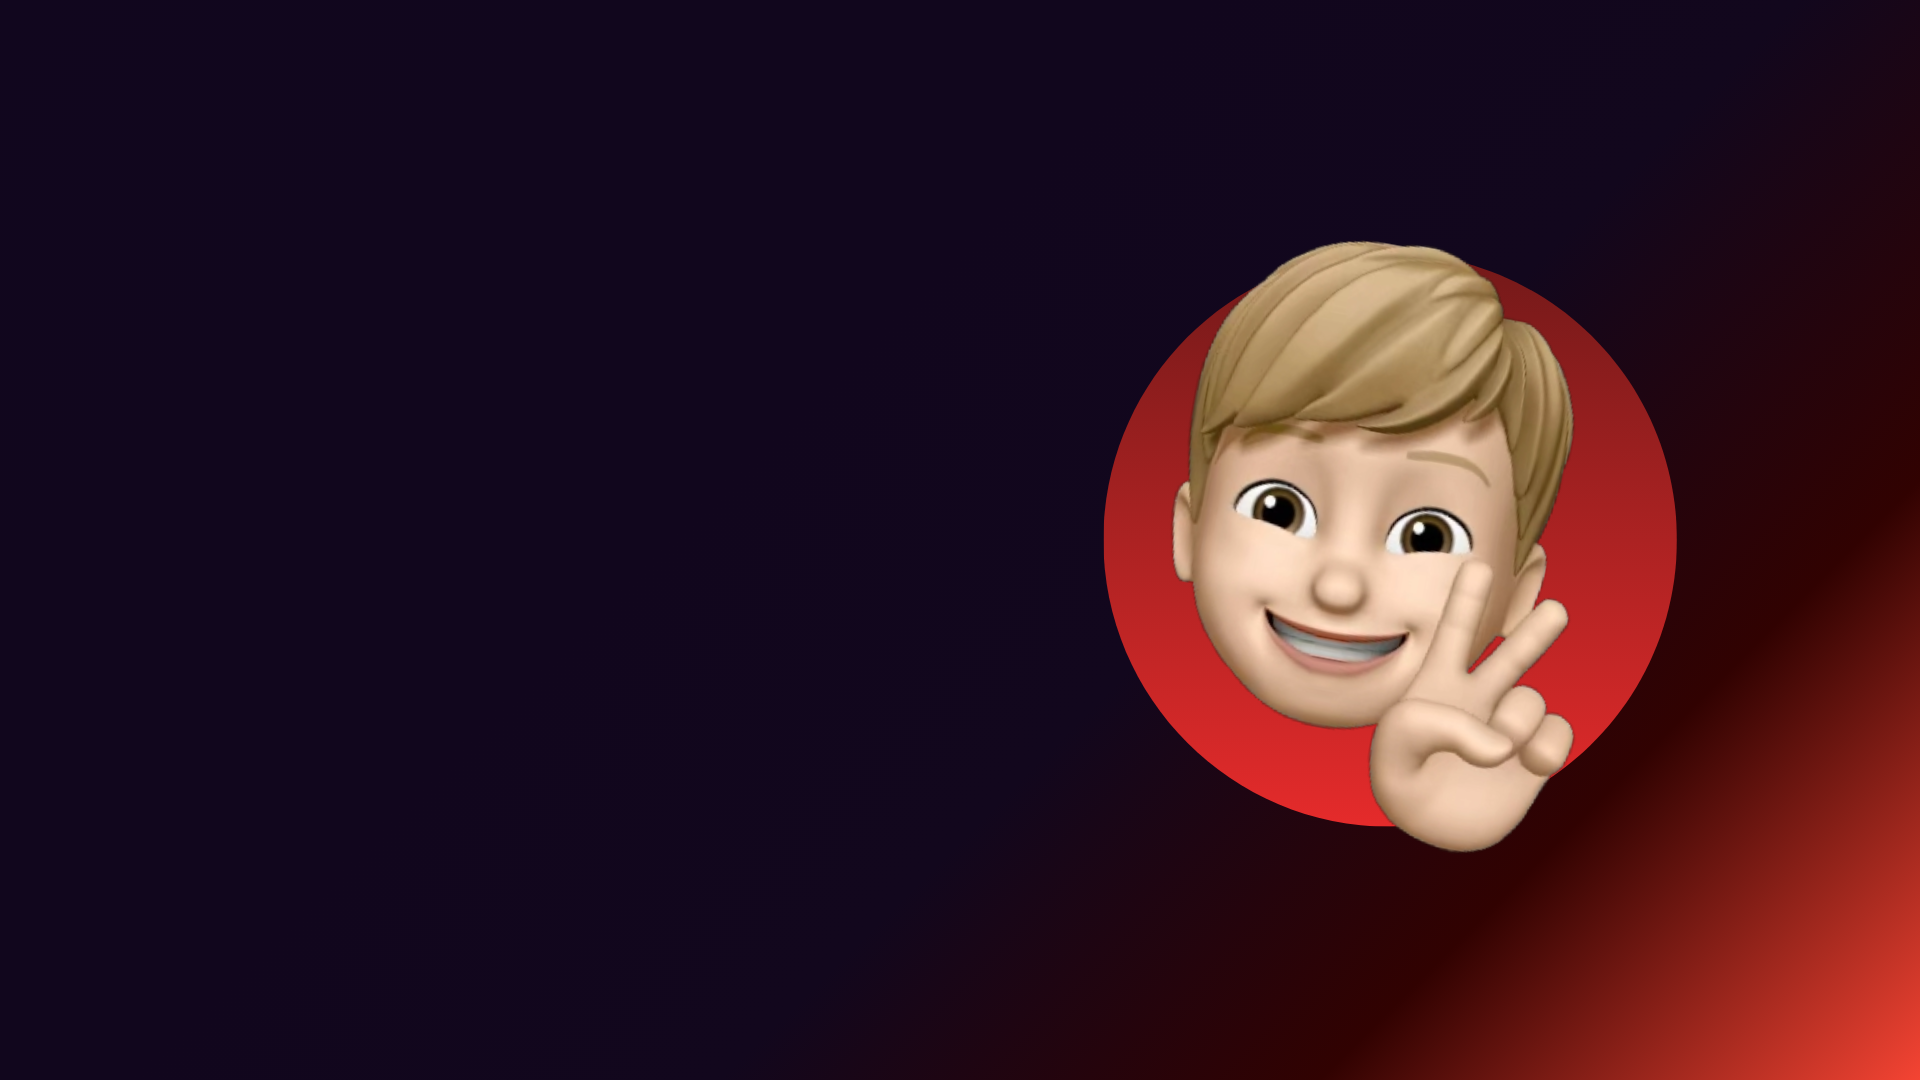
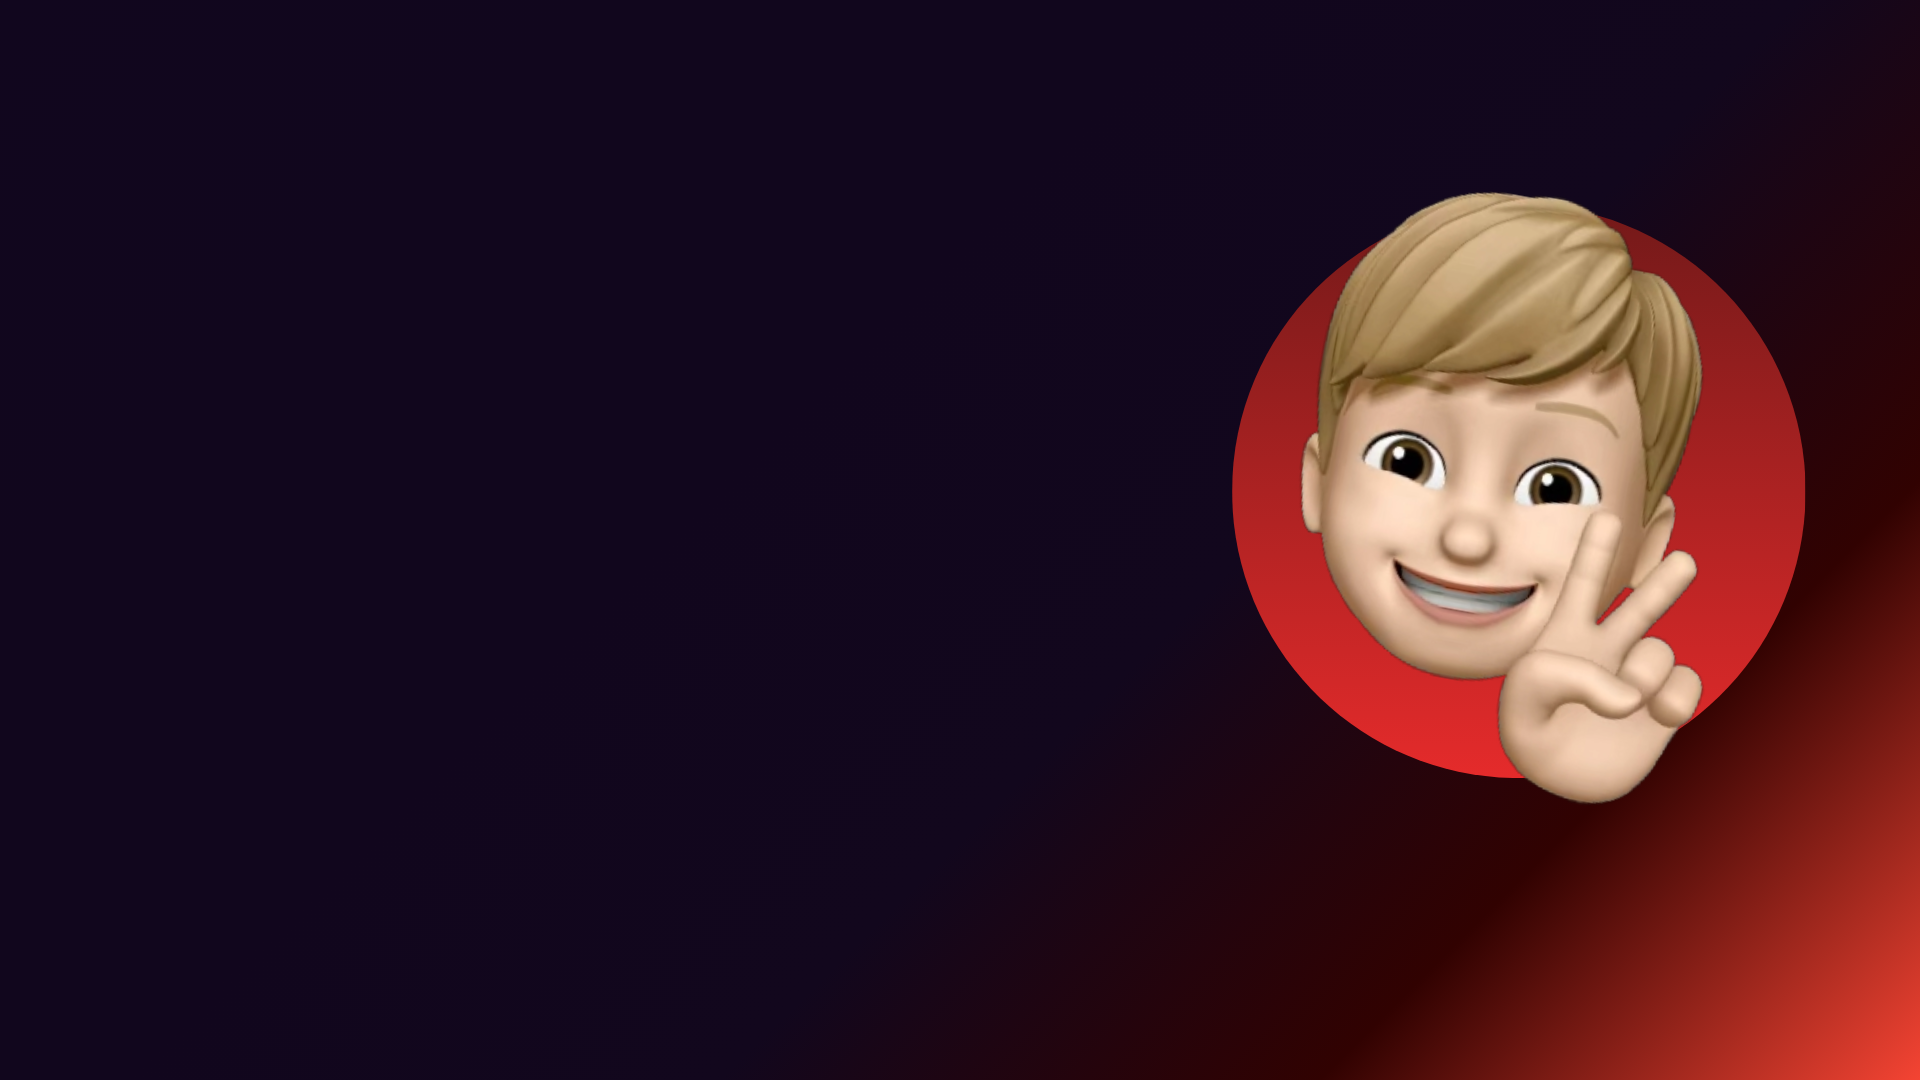
finalização da tela home

Changed region(s): [[0.5625, 0.1528, 0.9375, 0.7944]]

diff --git a/index.html b/index.html
@@ -1,60 +1,57 @@
-<!DOCTYPE html>
-<html lang="pt">
-<head>
-    <meta charset="UTF-8">
-    <meta name="viewport" content="width=device-width, initial-scale=1.0">
-    <link rel="stylesheet" href="style.css">
-<link rel="shortcut icon" href="assets/icons/favicon.ico" type="image/x-icon">
-    <title>Thiago Carvalho</title>
-</head>
+    <!DOCTYPE html>
+    <html lang="pt">
+    <head>
+        <meta charset="UTF-8">
+        <meta name="viewport" content="width=device-width, initial-scale=1.0">
+        <link rel="stylesheet" href="style.css">
+    <link rel="shortcut icon" href="assets/icons/favicon.ico" type="image/x-icon">
+        <title>Thiago Carvalho</title>
+    </head>
 
 
 
-<body class="body">
+    <body class="body">
 
 
-    <section id="home">
-        <div class="NomeFrente"> 
-            <p class="teste">Hello, I'm</p>
-        <h2>Thiago</h2>
-        <h1>    Carvalho</h1>
-    
+        <section class="home">
+            <div class="NomeFrente"> 
+                <p class="hello">Hello, I'm</p>
+            <h2>Thiago</h2>
+            <h1>    Carvalho</h1>
+        
+        </div>
+        <P class="ap">I’m a Back-End Developer specializing in building <br> scalable and efficient applications using Java.</P>
+        <div class="btn-container">
+        <a href="https://instagram.com/__Thiagocarvallho" class="insta-btn" target="_blank">
+            <img class="btn-insta" src="assets/icons/instagram.png" alt="Instagram">
+        </a>
+
+        <a href="https://github.com/tayssobrt" class="insta-btn" target="_blank">
+            <img class="btn-insta" src="assets/icons/Github.png" alt="GitHub">
+        </a>
+
+        <a href="https://www.linkedin.com/in/thiago-andr%C3%A9-75857334b/" class="insta-btn" target="_blank"> 
+            <img class="btn-insta" src="assets/icons/linkedin.png" alt="Linkedin">
+        </a>
     </div>
-    <P class="ap">I’m a Back-End Developer specializing in building <br> scalable and efficient applications using Java.</P>
-    <div class="btn-container">
-    <a href="https://instagram.com/__Thiagocarvallho" class="insta-btn" target="_blank">
-        <img class="btn-insta" src="assets/icons/instagram.png" alt="Instagram">
-    </a>
 
-    <a href="https://github.com/tayssobrt" class="insta-btn" target="_blank">
-        <img class="btn-insta" src="assets/icons/Github.png" alt="GitHub">
-    </a>
-
-     <a href="https://www.linkedin.com/in/thiago-andr%C3%A9-75857334b/" class="insta-btn" target="_blank"> 
-        <img class="btn-insta" src="assets/icons/linkedin.png" alt="Linkedin">
-    </a>
-</div>
-   
-
-
-</div>
-
-
+        </section>
+    <section class="sobre" class="sobre">
+    <h1>teste</h1>
 
     </section>
-<section id="sobre"></section>
-<section id="projetos"></section>
-<section id="skills"></section>
-<section id="links"></section>
+    <section id="projetos" class="projetos"></section>
+    <section id="skills" class="skills"></section>
+    <section id="links" class="links"></section>
 
-<nav class="navbar-glass">
-    <a href="#home"><img src="assets/icons/home.ico">Home</a>
-    <a href="#sobre"><img src="assets/icons/e-book.ico">Summary</a>
-    <a href="#projetos"><img src="assets/icons/habilidade-de-conquista-de-trofeu.ico">Experiences</a>
-    <a href="#skills"><img src="assets/icons/habilidade.ico">Skills</a>
-    <a href="#links"><img src="assets/icons/link-alt.ico">Links</a>
-</nav>
+    <nav class="navbar-glass">
+        <a href="#"><img src="assets/icons/home.ico">Home</a>
+        <a href="#sobre"><img src="assets/icons/e-book.ico">Summary</a>
+        <a href="#projetos"><img src="assets/icons/habilidade-de-conquista-de-trofeu.ico">Experiences</a>
+        <a href="#skills"><img src="assets/icons/habilidade.ico">Skills</a>
+        <a href="#links"><img src="assets/icons/link-alt.ico">Links</a>
+    </nav>
 
 
-</body>
-</html>
+    </body>
+    </html>

diff --git a/style.css b/style.css
@@ -3,7 +3,12 @@
     src: url("assets/fontes/Bebas-Regular.otf") format("opentype");
 }
 
-.teste {
+.home {
+    
+}
+
+
+.hello {
     font-size: 40px;
 }
 
@@ -29,7 +34,6 @@ body {
     background-repeat: no-repeat;
     background-position: center;
     background-size: cover;
-    background-attachment: fixed;
 }
 
 
@@ -37,7 +41,7 @@ body {
    4. NAVBAR GLASS (IA)
 ================================ */
 .navbar-glass {
-
+    opacity: 70%;
     font-family: "bebas", sans-serif;
 
     position: fixed;
@@ -118,5 +122,20 @@ body {
     transform: scale(1.1);
 }
 
+.sobre {
 
+    background-image: url("assets/bgSobre.png");
+
+}
+
+.prototipo {
+    width: 220px;
+    height: 120px;
+    background: rgba(255, 255, 255, 0.15);
+    backdrop-filter: blur(10px);
+    border-radius: 15px;
+    border: 1px solid rgba(255, 255, 255, 0.2);
+
+
+}
 
